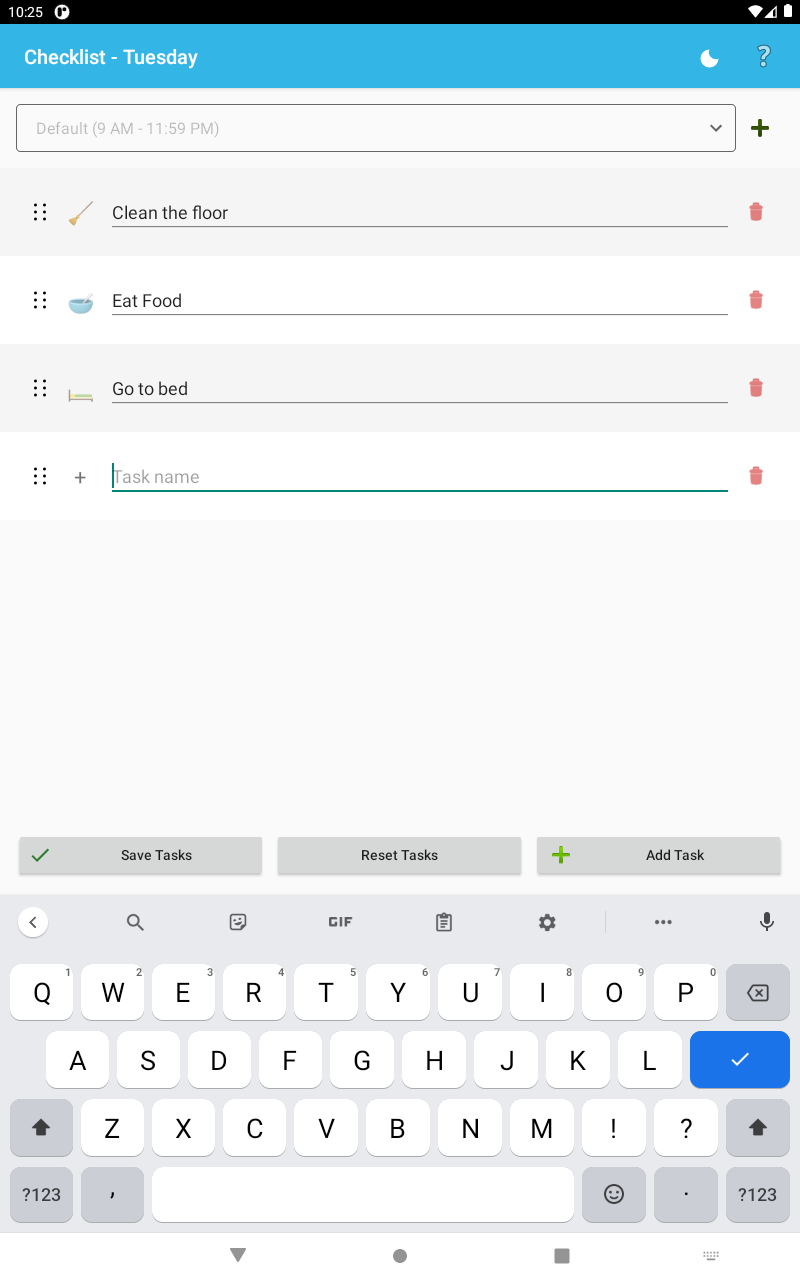
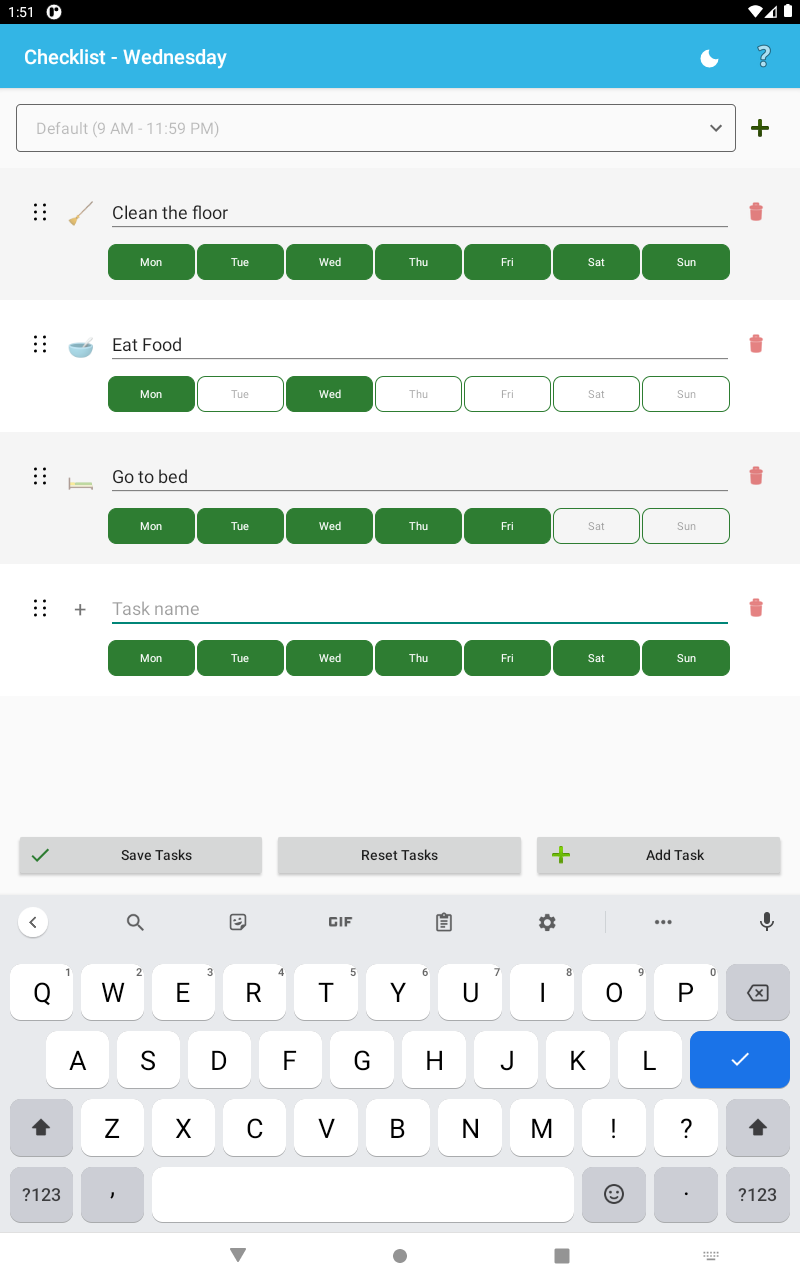
Add weekday scheduling for tasks
Tasks can now be assigned to specific weekdays. The checklist shows only tasks scheduled for the current day, while edit mode lists all tasks and shows a Mon–Sun day picker on each item (at least one day must stay selected).

Task gains a daysOfWeek set (ISO 1–7, default all days), persisted as "days" in JSON. Missing or invalid values fall back to every day, so existing data and backups still load. Added Task.isScheduledOn with unit tests.

Other changes: bump version to 1.9.0 (code 9), update README and screenshots, and revise the Windows Gradle build skill's recovery steps.

diff --git a/app/src/main/java/com/example/checklist/MainActivity.kt b/app/src/main/java/com/example/checklist/MainActivity.kt
@@ -191,7 +191,7 @@ class MainActivity : AppCompatActivity() {
                 routineSpinner.isEnabled = true
                 updateEditTasksButton(false)
             } else {
-                adapter.beginEditing()
+                startEditing()
                 routineSpinner.isEnabled = false
                 updateEditTasksButton(true)
             }
@@ -372,7 +372,7 @@ class MainActivity : AppCompatActivity() {
 
     private fun addTaskForSelectedRoutine() {
         if (!adapter.isEditMode) {
-            adapter.beginEditing()
+            startEditing()
             routineSpinner.isEnabled = false
             updateEditTasksButton(true)
         }
@@ -395,13 +395,21 @@ class MainActivity : AppCompatActivity() {
         }
     }
 
+    private fun startEditing() {
+        adapter.beginEditing()
+        loadTasks()
+    }
+
     private fun loadTasks() {
         val routineId = selectedRoutineId
         if (routineId == null) {
             adapter.updateTasks(emptyList())
             return
         }
-        val tasksForRoutine = taskManager.getTasks().filter { it.routineId == routineId }.sortedBy { it.order }
+        val today = LocalDate.now().dayOfWeek
+        val tasksForRoutine = taskManager.getTasks()
+            .filter { it.routineId == routineId && (adapter.isEditMode || it.isScheduledOn(today)) }
+            .sortedBy { it.order }
         adapter.updateTasks(tasksForRoutine)
     }
 
@@ -495,8 +503,13 @@ data class Task(
     val endTime: String,
     val routineId: String,
     val completed: Boolean = false,
-    val emoji: String = ""
+    val emoji: String = "",
+    val daysOfWeek: Set<Int> = ALL_DAYS_OF_WEEK
 )
+
+// ISO day numbers: 1 = Monday ... 7 = Sunday
+val ALL_DAYS_OF_WEEK: Set<Int> = (1..7).toSet()
+private val DAY_ABBREVIATIONS = listOf("Mon", "Tue", "Wed", "Thu", "Fri", "Sat", "Sun")
 
 data class Routine(
     val id: String,
@@ -514,15 +527,20 @@ class TaskAdapter(
 
     private val tasks = mutableListOf<Task>()
     private val editedNames = mutableMapOf<String, String>()
+    private val editedDays = mutableMapOf<String, Set<Int>>()
     var isEditMode = false
         private set
 
     fun updateTasks(newTasks: List<Task>) {
         editedNames.keys.retainAll(newTasks.mapTo(mutableSetOf()) { it.id })
+        editedDays.keys.retainAll(newTasks.mapTo(mutableSetOf()) { it.id })
         tasks.clear()
         tasks.addAll(newTasks)
         if (isEditMode) {
-            tasks.forEach { task -> editedNames.putIfAbsent(task.id, task.name) }
+            tasks.forEach { task ->
+                editedNames.putIfAbsent(task.id, task.name)
+                editedDays.putIfAbsent(task.id, task.daysOfWeek)
+            }
         }
         notifyDataSetChanged()
         onTaskListChanged()
@@ -545,7 +563,10 @@ class TaskAdapter(
     fun beginEditing() {
         if (isEditMode) return
         isEditMode = true
-        tasks.forEach { editedNames[it.id] = it.name }
+        tasks.forEach {
+            editedNames[it.id] = it.name
+            editedDays[it.id] = it.daysOfWeek
+        }
         notifyDataSetChanged()
     }
 
@@ -554,6 +575,7 @@ class TaskAdapter(
         val position = tasks.size
         tasks.add(task)
         editedNames[task.id] = ""
+        editedDays[task.id] = task.daysOfWeek
         notifyItemInserted(position)
         onTaskListChanged()
         return true
@@ -563,20 +585,27 @@ class TaskAdapter(
         if (isEditMode && taskId in editedNames) editedNames[taskId] = draft
     }
 
+    fun updateEditingDays(taskId: String, days: Set<Int>) {
+        if (isEditMode && taskId in editedDays) editedDays[taskId] = days
+    }
+
     fun saveChanges(): Boolean {
         val updatedTasks = tasks.mapIndexed { index, task ->
             val name = editedNames[task.id]?.trim().orEmpty()
             if (name.isEmpty()) return false
-            task.copy(name = name, order = index)
+            task.copy(name = name, order = index, daysOfWeek = editedDays[task.id] ?: task.daysOfWeek)
         }
         val updatedTasksById = updatedTasks.associateBy { it.id }
         val allTasks = taskManager.getTasks().map { task -> updatedTasksById[task.id] ?: task }
         taskManager.saveTasks(allTasks + updatedTasks.filter { updated -> allTasks.none { it.id == updated.id } })
+        val today = LocalDate.now().dayOfWeek
         tasks.clear()
-        tasks.addAll(updatedTasks)
+        tasks.addAll(updatedTasks.filter { it.isScheduledOn(today) })
         editedNames.clear()
+        editedDays.clear()
         isEditMode = false
         notifyDataSetChanged()
+        onTaskListChanged()
         return true
     }
 
@@ -584,6 +613,7 @@ class TaskAdapter(
         val position = tasks.indexOfFirst { it.id == taskId }
         taskManager.deleteTask(taskId)
         editedNames.remove(taskId)
+        editedDays.remove(taskId)
         if (position >= 0) {
             tasks.removeAt(position)
             notifyItemRemoved(position)
@@ -608,7 +638,7 @@ class TaskAdapter(
 
     override fun onBindViewHolder(holder: TaskViewHolder, position: Int) {
         val task = tasks[position]
-        holder.bind(task, position, isEditMode, editedNames[task.id].orEmpty())
+        holder.bind(task, position, isEditMode, editedNames[task.id].orEmpty(), editedDays[task.id] ?: task.daysOfWeek)
     }
 
     override fun getItemCount() = tasks.size
@@ -629,9 +659,56 @@ class TaskAdapter(
         private val completeToggle: android.widget.Switch = itemView.findViewById(R.id.completeToggle)
         private val deleteButton: android.widget.ImageButton = itemView.findViewById(R.id.deleteTaskButton)
         private val rootLayout: android.view.View = itemView
+        private val taskDays: android.widget.TextView = itemView.findViewById(R.id.taskDays)
+        private val dayPicker: LinearLayout = itemView.findViewById(R.id.dayPicker)
+        private val dayButtons = DAY_ABBREVIATIONS.map { android.widget.TextView(itemView.context) }
         private var draftWatcher: TextWatcher? = null
 
-        fun bind(task: Task, position: Int, isEditMode: Boolean, editDraft: String) {
+        init {
+            val density = itemView.resources.displayMetrics.density
+            dayButtons.forEachIndexed { index, button ->
+                button.text = DAY_ABBREVIATIONS[index]
+                button.gravity = Gravity.CENTER
+                button.textSize = 11f
+                dayPicker.addView(button, LinearLayout.LayoutParams(0, (36 * density).toInt(), 1f).apply {
+                    marginEnd = (2 * density).toInt()
+                })
+            }
+        }
+
+        private fun styleDayButton(button: android.widget.TextView, selected: Boolean) {
+            val density = itemView.resources.displayMetrics.density
+            button.background = android.graphics.drawable.GradientDrawable().apply {
+                cornerRadius = 8 * density
+                setColor(if (selected) itemView.context.getColor(R.color.action_save) else android.graphics.Color.TRANSPARENT)
+                setStroke((1 * density).toInt(), itemView.context.getColor(R.color.action_save))
+            }
+            button.setTextColor(if (selected) android.graphics.Color.WHITE else button.currentHintTextColor)
+        }
+
+        fun bind(task: Task, position: Int, isEditMode: Boolean, editDraft: String, editDays: Set<Int>) {
+            val daysLabel = DAY_ABBREVIATIONS.filterIndexed { i, _ -> (i + 1) in task.daysOfWeek }
+            taskDays.text = daysLabel.joinToString(" ")
+            taskDays.visibility = if (!isEditMode && task.daysOfWeek != ALL_DAYS_OF_WEEK) {
+                android.view.View.VISIBLE
+            } else {
+                android.view.View.GONE
+            }
+            dayPicker.visibility = if (isEditMode) android.view.View.VISIBLE else android.view.View.GONE
+            if (isEditMode) {
+                var selectedDays = editDays
+                dayButtons.forEachIndexed { index, button ->
+                    val day = index + 1
+                    styleDayButton(button, day in selectedDays)
+                    button.setOnClickListener {
+                        val updated = if (day in selectedDays) selectedDays - day else selectedDays + day
+                        if (updated.isEmpty()) return@setOnClickListener
+                        selectedDays = updated
+                        adapter.updateEditingDays(task.id, updated)
+                        styleDayButton(button, day in updated)
+                    }
+                }
+            }
             taskName.text = task.name
             taskName.visibility = if (isEditMode) android.view.View.GONE else android.view.View.VISIBLE
             taskNameEdit.visibility = if (isEditMode) android.view.View.VISIBLE else android.view.View.GONE

diff --git a/app/src/test/java/com/example/checklist/ScheduleUtilsTest.kt b/app/src/test/java/com/example/checklist/ScheduleUtilsTest.kt
@@ -1,6 +1,9 @@
 package com.example.checklist
 
+import java.time.DayOfWeek
 import org.junit.Assert.assertEquals
+import org.junit.Assert.assertFalse
+import org.junit.Assert.assertTrue
 import org.junit.Test
 
 class ScheduleUtilsTest {
@@ -15,4 +18,33 @@ class ScheduleUtilsTest {
         assertEquals("3:05 PM", toAmPm("15:05"))
         assertEquals("9:30 AM", toAmPm("09:30"))
     }
+
+    @Test
+    fun isScheduledOn_matchesOnlySelectedWeekdays() {
+        val task = task(daysOfWeek = setOf(DayOfWeek.MONDAY.value, DayOfWeek.WEDNESDAY.value))
+
+        assertTrue(task.isScheduledOn(DayOfWeek.MONDAY))
+        assertTrue(task.isScheduledOn(DayOfWeek.WEDNESDAY))
+        assertFalse(task.isScheduledOn(DayOfWeek.TUESDAY))
+        assertFalse(task.isScheduledOn(DayOfWeek.SUNDAY))
+    }
+
+    @Test
+    fun isScheduledOn_includesEveryDayForDefaultSchedule() {
+        val task = task(daysOfWeek = ALL_DAYS_OF_WEEK)
+
+        DayOfWeek.values().forEach { day ->
+            assertTrue(task.isScheduledOn(day))
+        }
+    }
+
+    private fun task(daysOfWeek: Set<Int>) = Task(
+        id = "task-id",
+        name = "Task",
+        order = 0,
+        startTime = "09:00",
+        endTime = "10:00",
+        routineId = "routine-id",
+        daysOfWeek = daysOfWeek
+    )
 }

diff --git a/app/src/main/java/com/example/checklist/TaskManager.kt b/app/src/main/java/com/example/checklist/TaskManager.kt
@@ -54,7 +54,10 @@ class TaskManager(context: Context) {
                 endTime = obj.getString("endTime"),
                 routineId = obj.optString("routineId", ""),
                 completed = obj.optBoolean("completed", false),
-                emoji = obj.optString("emoji", "")
+                emoji = obj.optString("emoji", ""),
+                daysOfWeek = obj.optJSONArray("days")?.let { days ->
+                    (0 until days.length()).map { days.getInt(it) }.filter { it in 1..7 }.toSet()
+                }?.takeIf { it.isNotEmpty() } ?: ALL_DAYS_OF_WEEK
             )
             require(task.id.isNotBlank()) { "Task IDs cannot be empty" }
             require(taskIds.add(task.id)) { "Task IDs must be unique" }
@@ -79,6 +82,7 @@ class TaskManager(context: Context) {
             obj.put("routineId", task.routineId)
             obj.put("completed", task.completed)
             obj.put("emoji", task.emoji)
+            obj.put("days", JSONArray(task.daysOfWeek.sorted()))
             jsonArray.put(obj)
         }
         return jsonArray

diff --git a/app/src/main/java/com/example/checklist/ScheduleUtils.kt b/app/src/main/java/com/example/checklist/ScheduleUtils.kt
@@ -1,5 +1,9 @@
 package com.example.checklist
 
+import java.time.DayOfWeek
+
+fun Task.isScheduledOn(dayOfWeek: DayOfWeek): Boolean = dayOfWeek.value in daysOfWeek
+
 fun toAmPm(time24: String): String {
     val parts = time24.split(":")
     if (parts.size != 2) return time24

diff --git a/.github/skills/windows-gradle-build/SKILL.md b/.github/skills/windows-gradle-build/SKILL.md
@@ -1,26 +1,41 @@
 ---
 name: windows-gradle-build
-description: "Use when building this Android app with Gradle on Windows, especially for 'Unable to delete directory', 'Failed to delete some children', or generated output folders that are not empty. Prevent concurrent builds and recover with narrowly scoped cleanup."
+description: "Use when building this Android app with Gradle on Windows, especially recurring 'Unable to delete directory' or 'Failed to delete some children' errors in app/build. Prevent concurrent builds and use the shortest verified recovery path."
 ---
 
 # Windows Gradle Builds
 
-Use the Gradle wrapper from the repository root. This project shares generated outputs under `app/build`, so concurrent Gradle invocations can contend for the same directories.
+Use the Gradle wrapper from the repository root. Generated outputs are shared under `app/build`; overlapping Gradle invocations or an IDE build can contend for them.
 
 ## Normal Build
 
 1. Run one Gradle command at a time and wait for it to finish before starting another task, including tasks launched by Android Studio.
-2. For ordinary incremental builds, invoke the requested task using the repository's Gradle wrapper. Do not run `clean`, stop daemons, or delete build outputs preemptively; these actions slow normal builds and do not prevent file locks.
+2. For ordinary incremental builds, invoke the requested task using the repository's Gradle wrapper. Do not run `clean`, stop daemons, or delete build outputs preemptively.
 
-## Directory Deletion Failure
+## Repeated Output Deletion Failure
 
 When Gradle reports `Unable to delete directory` or `Failed to delete some children`:
 
-1. Capture the exact failed path and wait for the failed Gradle process to finish. Do not immediately launch another build against the same outputs.
-2. Check that no other Gradle build is active. Only then stop the Gradle daemons with the wrapper's `--stop` option from the repository root; stopping daemons can interrupt other builds.
-3. Retry the original Gradle task once.
-4. If the same failure recurs, remove only the exact failing generated directory when it is under this repository's `app/build` tree, using PowerShell `Remove-Item -LiteralPath '<exact path from the error>' -Recurse -Force`. Never delete a guessed path, source directory, or anything outside generated build outputs.
-5. Retry the original task once more. If a different output directory fails, or the targeted cleanup cannot remove it, stop retrying and investigate another process holding files open. Do not repeat broad cleanup loops.
-6. Removing the entire `app/build` directory is a last resort after targeted recovery fails and no build is active. Explain that this discards generated outputs before doing so.
+1. Capture the failing task and paths, and wait for Gradle to exit. Do not start another build yet.
+2. Check `gradlew.bat --status` and running Gradle processes. Do not stop a busy daemon. If Android Studio is open on this project, wait for its build/sync to finish; if needed, ask the user to save and close the project. Never force-close the IDE.
+3. Stop idle daemons with `gradlew.bat --stop`, then retry the original task once.
+4. If the retry still fails, especially if the error moves between generated directories, stop chasing individual paths. Confirm no build or IDE process is active, stop idle daemons, and remove the generated `app/build` tree once:
 
-After recovery, run the same task once more as a normal incremental build if the user reports that the issue recurs. If it succeeds, do not add cleanup to every build; keep builds serialized and use this recovery only for actual lock failures.
+	```powershell
+	Remove-Item -LiteralPath app/build -Recurse -Force
+	```
+
+	This is safe only because `app/build` contains generated outputs. Never remove `app`, source directories, or paths outside the repository.
+
+5. Retry the requested task once with file watching and parallel workers disabled. For this project's unit tests:
+
+	```powershell
+	.\gradlew.bat :app:testDebugUnitTest --no-watch-fs --no-parallel --max-workers=1
+	```
+
+	Substitute the user's original task when it is not the unit-test task. This exact sequence recovered the recurring resource-output deletion failure in this repository.
+6. If a clean `app/build` still fails, stop cleanup attempts. Capture `--stacktrace`, inspect the exact paths and active processes, and use an available Windows handle-inspection tool to identify the owner. Do not repeatedly delete outputs, alter Gradle settings, or disable antivirus without evidence.
+
+Windows commonly marks directories with the `ReadOnly` attribute; that alone is not evidence of a lock or a permissions problem. Check file attributes and ACLs only when they differ from normal workspace paths. If a Restart Manager query is used, register actual files; empty directory paths may return no useful owner information.
+
+Do not add cleanup to every build or permanently change Gradle configuration just to mask a stale-output incident. Keep builds serialized and use this recovery only for actual output-deletion failures.

diff --git a/README.md b/README.md
@@ -6,12 +6,13 @@ A native Android checklist for organizing tasks into routines.
 
 - Create, edit, and delete routines, each with a name and start/end times.
 - Add tasks to the selected routine, then edit names, assign emojis, delete, and reorder tasks in a shared editing mode.
+- Schedule tasks for specific weekdays; the checklist shows tasks scheduled for the current day.
 - Mark tasks complete and reset completion status.
 - Switch between light and dark mode; the selection is saved between launches.
 - Store routines and tasks locally on the device.
 - Export and restore tasks and routines as a JSON backup from the About menu.
 
-The task list shows the selected routine's tasks in their configured order. Routine times are displayed but do not automatically filter tasks by the current time.
+The task list shows the selected routine's tasks for the current weekday in their configured order. Routine times are displayed but do not automatically filter tasks by the current time.
 
 ## Screenshots
 
@@ -26,7 +27,7 @@ The task list shows the selected routine's tasks in their configured order. Rout
 ## Task Workflow
 
 - Select a routine from the list at the top of the screen.
-- Choose **Edit Tasks** to change task names, assign or clear emojis from categorized groups, delete tasks, and drag tasks into order.
+- Choose **Edit Tasks** to change task names, assign weekdays, assign or clear emojis from categorized groups, delete tasks, and drag tasks into order.
 - Choose **Add Task** to insert a blank task inline. Choose **Save Tasks** to save task edits and ordering.
 
 ## Requirements
